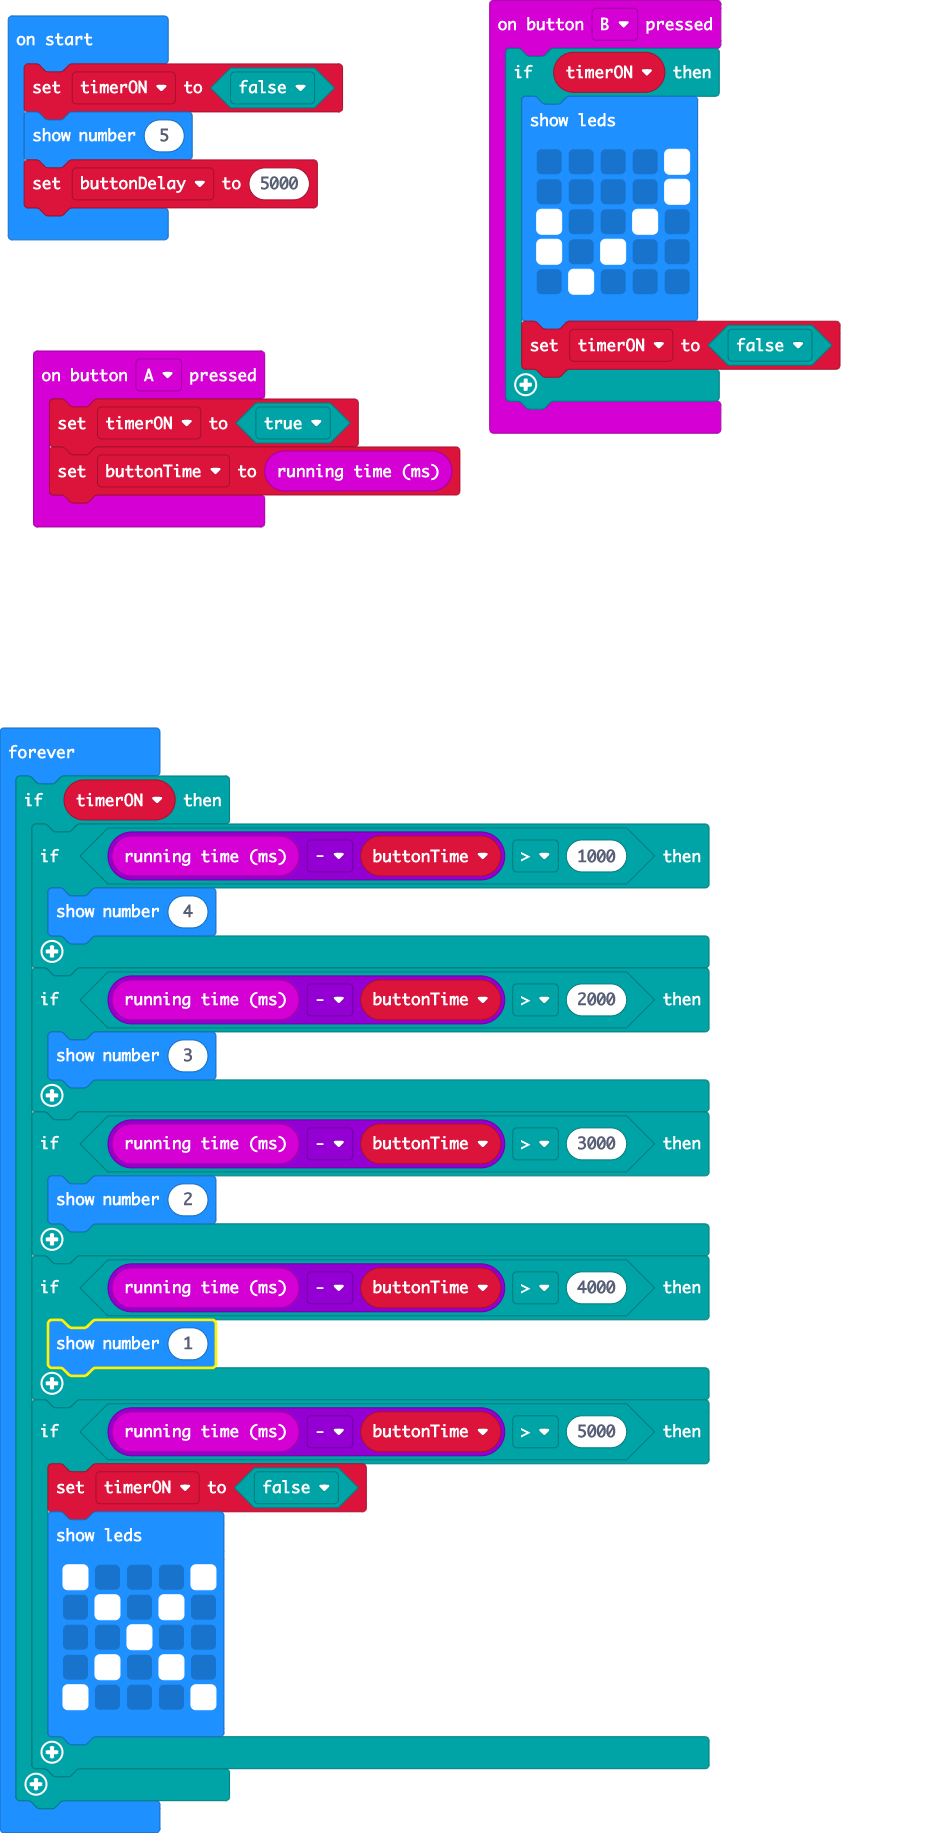
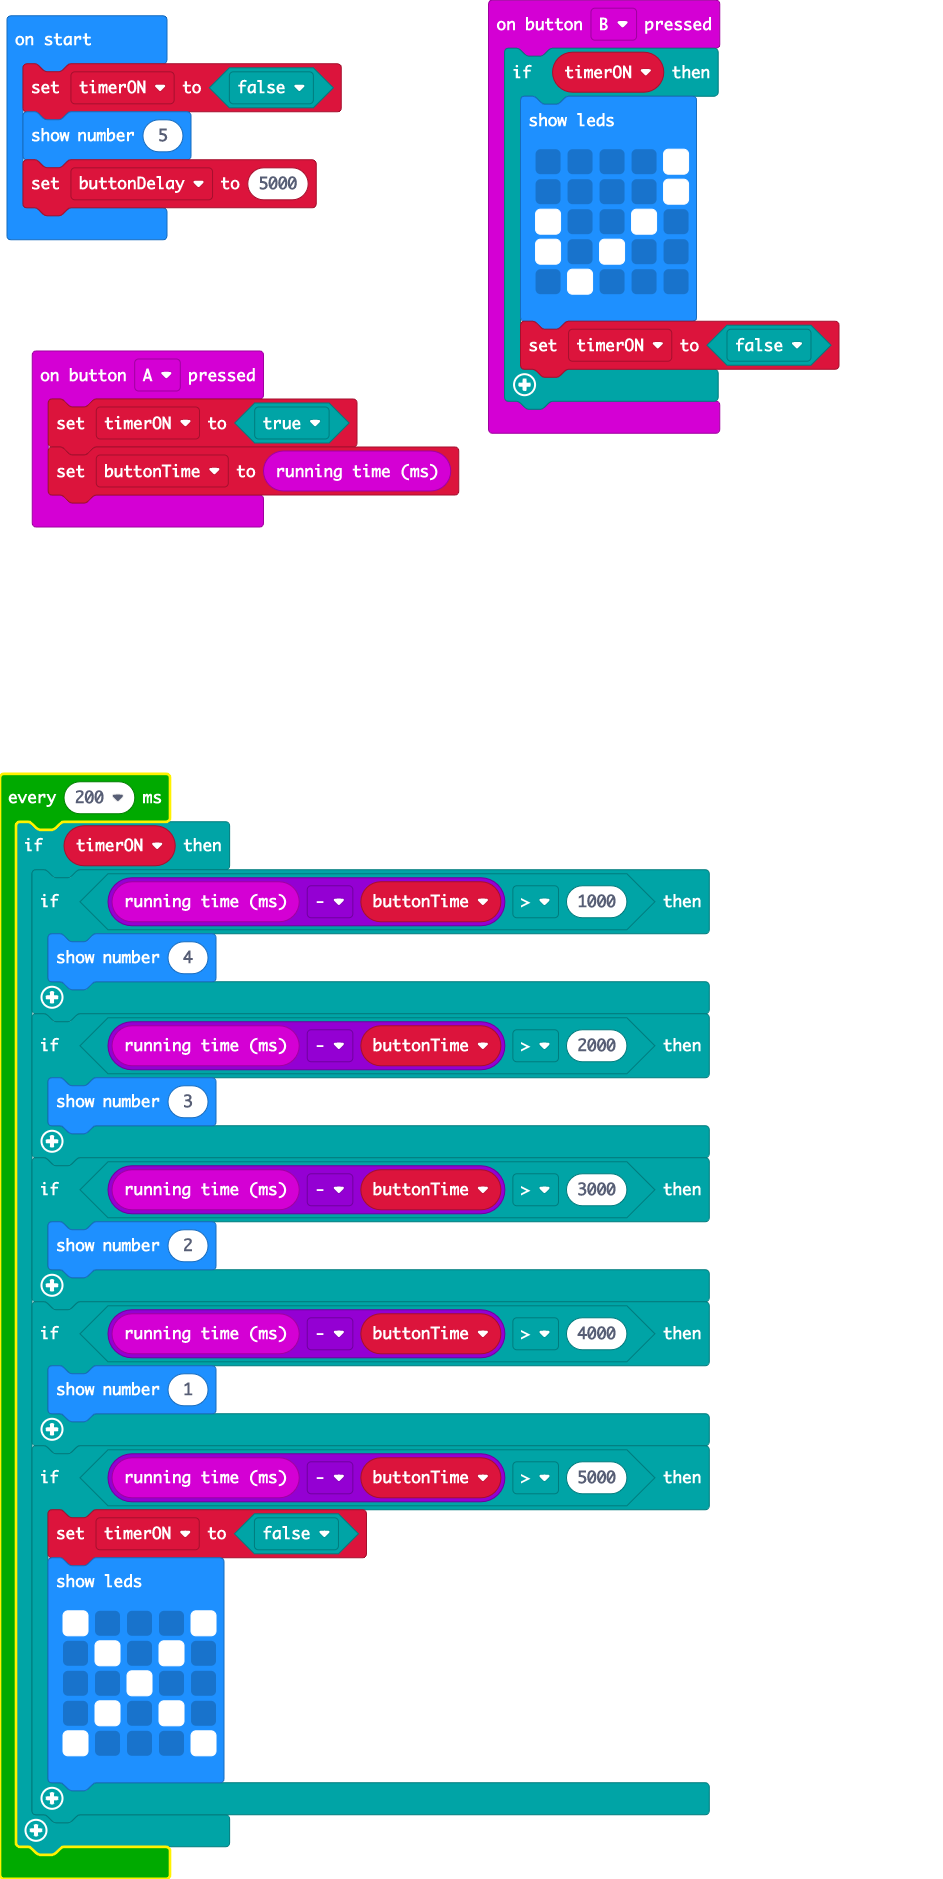
try timed loop to replace forever

diff --git a/main.ts b/main.ts
@@ -19,7 +19,7 @@ let timerON = false
 timerON = false
 basic.showNumber(5)
 let buttonDelay = 5000
-basic.forever(function () {
+loops.everyInterval(200, function () {
     if (timerON) {
         if (input.runningTime() - buttonTime > 1000) {
             basic.showNumber(4)
